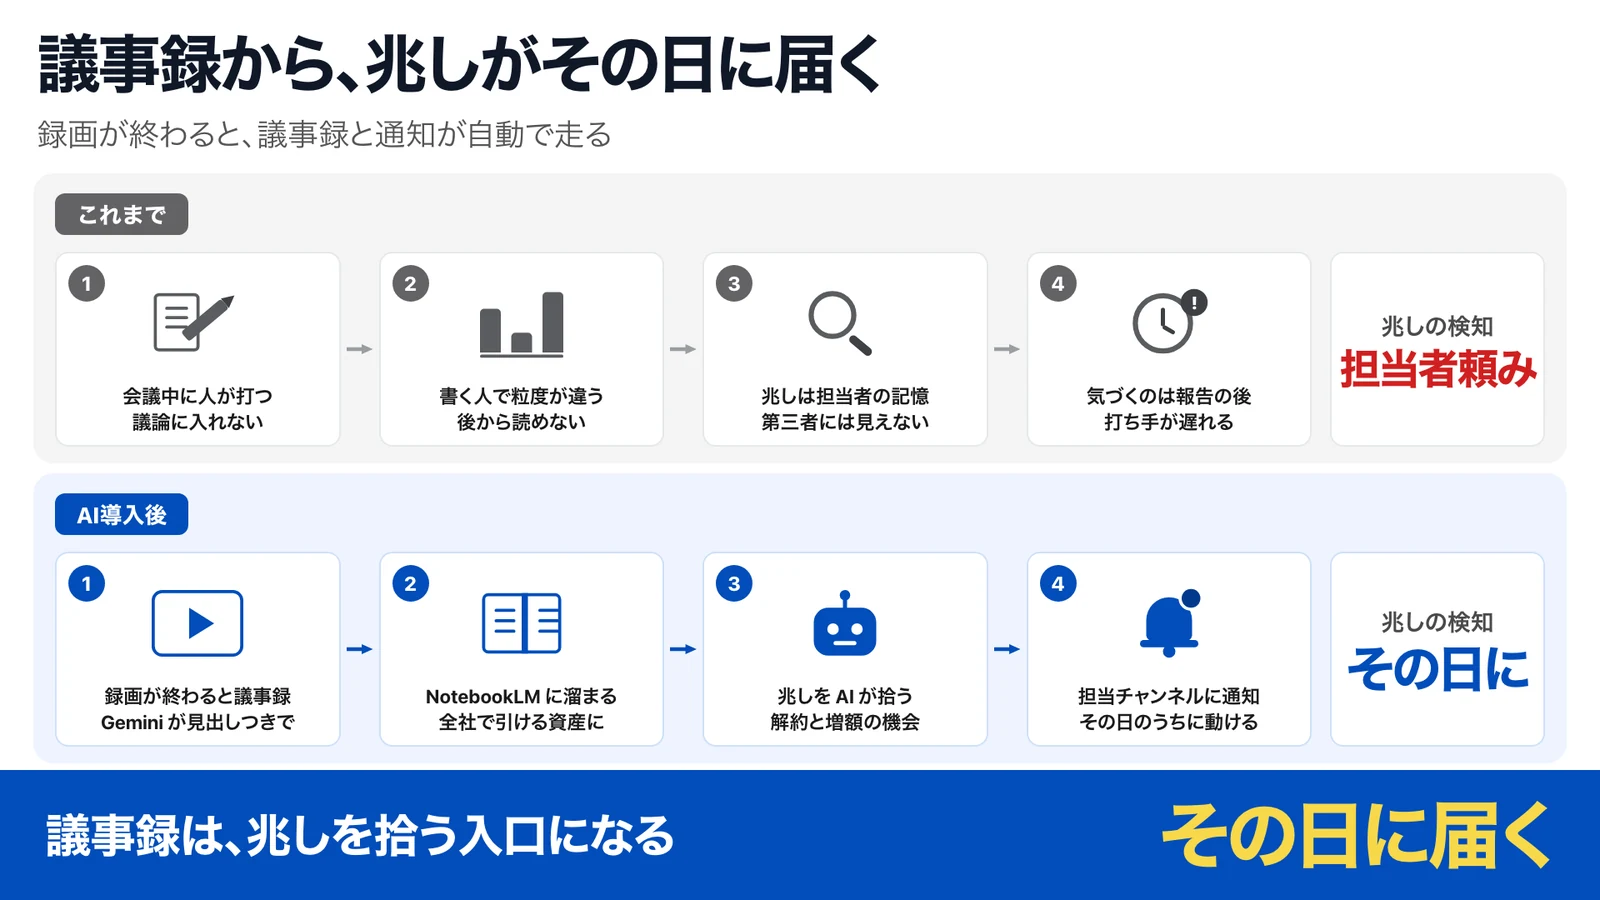
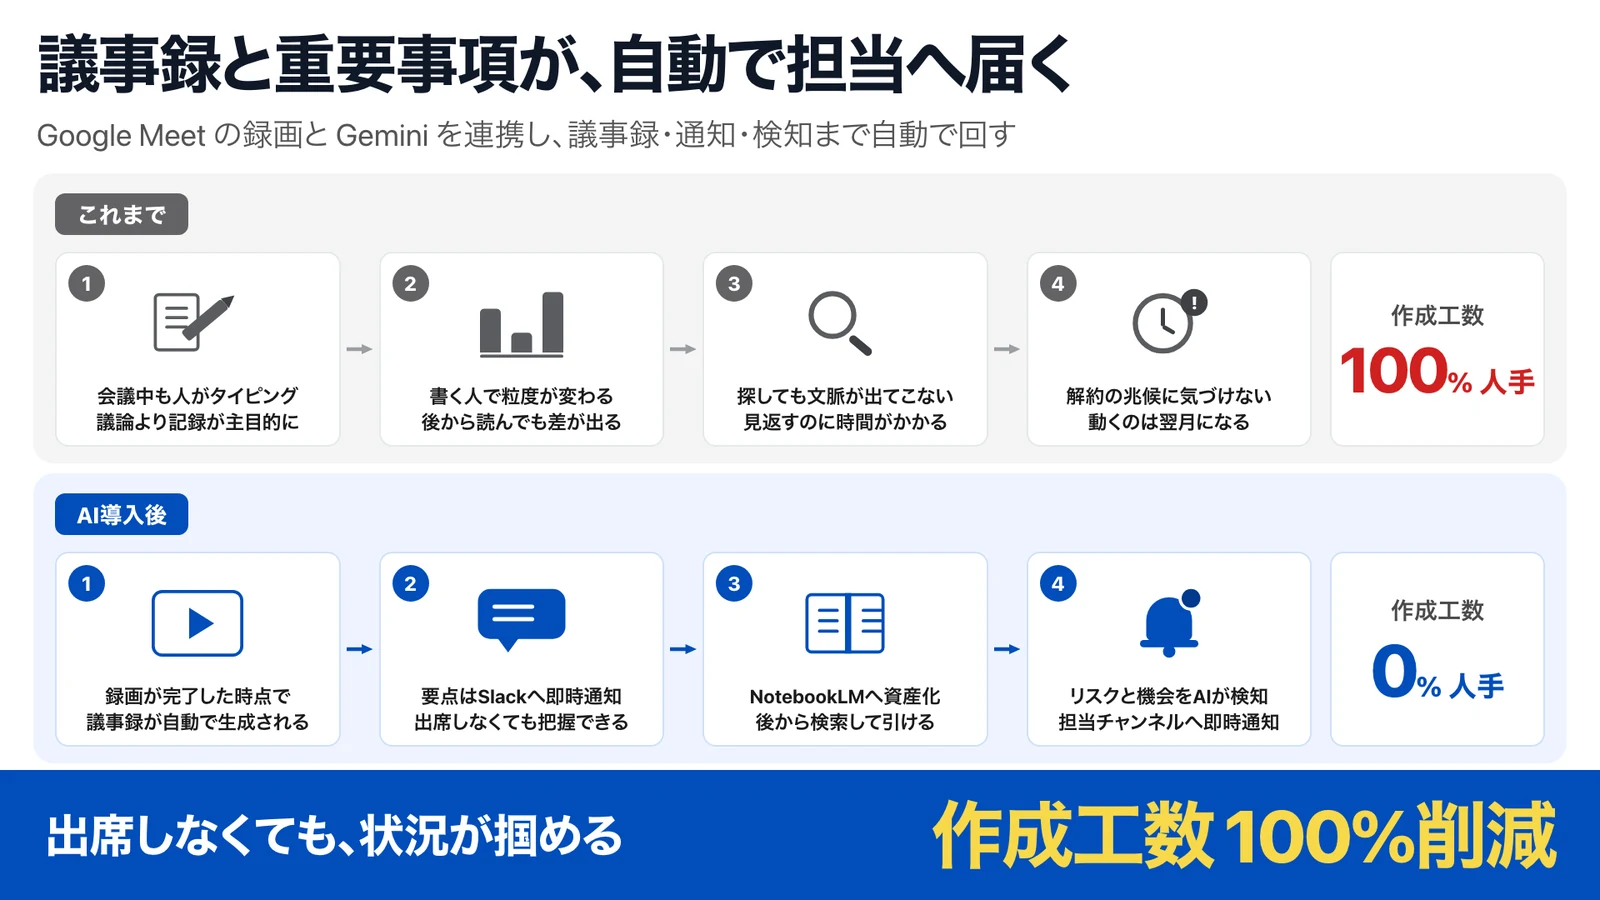
fix: 事例02 を「議事録と重要事項が、自動で担当へ届く」に（坂本 1b/2a）
- 「兆し」単独の言い回しをやめ、重要事項＝決定事項・次の打ち手・解約の兆し・増額の機会 に
- 図解 A3 は旧の「これまで／AI導入後」8マス・KPI・締めを残し、見出しだけ差し替え（機械ゲート 違反0）
- 検査: tile_check 5幅 ok／gate 20/20／NG OK／slop-guard A0・B0

diff --git a/cases/case-02.html b/cases/case-02.html
@@ -3,13 +3,13 @@
 <head>
 <meta charset="UTF-8">
 <meta name="viewport" content="width=device-width, initial-scale=1.0">
-<title>事例02：議事録から、解約の兆しがその日に Slack へ届く｜AI業務改革パートナー</title>
-<meta name="description" content="Google Meet の録画が終わると Gemini が議事録を書き、NotebookLM に溜まる。会話の中の解約の兆しや増額の機会を AI が読み取り、担当のチャンネルに通知する。">
+<title>事例02：議事録と重要事項が、自動で担当へ届く｜AI業務改革パートナー</title>
+<meta name="description" content="Google Meet の録画が終わると Gemini が議事録を書き、NotebookLM に溜まる。決定事項と次の打ち手、解約の兆しや増額の機会といった重要事項を AI が拾い、担当のチャンネルに届ける。">
 <link rel="canonical" href="https://ai-ops-partner.vercel.app/cases/case-02.html">
 <meta property="og:type" content="website">
 <meta property="og:site_name" content="AI業務改革パートナー">
-<meta property="og:title" content="事例02：議事録から、解約の兆しがその日に Slack へ届く｜AI業務改革パートナー">
-<meta property="og:description" content="Google Meet の録画が終わると Gemini が議事録を書き、NotebookLM に溜まる。会話の中の解約の兆しや増額の機会を AI が読み取り、担当のチャンネルに通知する。">
+<meta property="og:title" content="事例02：議事録と重要事項が、自動で担当へ届く｜AI業務改革パートナー">
+<meta property="og:description" content="Google Meet の録画が終わると Gemini が議事録を書き、NotebookLM に溜まる。決定事項と次の打ち手、解約の兆しや増額の機会といった重要事項を AI が拾い、担当のチャンネルに届ける。">
 <meta property="og:image" content="https://ai-ops-partner.vercel.app/cases/media/case-02_ill.webp">
 <meta property="og:url" content="https://ai-ops-partner.vercel.app/cases/case-02.html">
 <meta name="twitter:card" content="summary_large_image">
@@ -285,20 +285,20 @@ p.csub{max-width:1100px;margin:-6px auto 16px;font-size:.95rem;color:var(--tx2);
 <body>
 <header class="hd"><div class="hd-in"><a href="../index.html" class="hd-logo"><i></i>AI業務改革<span>パートナー</span></a><nav class="hd-nav"><a href="../index.html#cases">事例一覧</a><a href="../index.html#systems">動いている仕組み</a><a href="https://tally.so/r/QKdxx1" class="hd-cta" target="_blank" rel="noopener">無料で相談する</a></nav></div></header><div class="progress" id="pg"></div>
 <section class="chero"><div class="w"><div class="crumb"><a href="../index.html">事例一覧</a><span>›</span><span class="cur">CASE 02</span></div>
-<div class="chero-grid"><div><div class="bds"><span class="bd bd-cat">会議・議事録</span><span class="bd bd-video">デモあり</span></div><h1>議事録から、解約の兆しがその日に Slack へ届く</h1><p class="lead">Google Meet の録画が終わると Gemini が議事録を書き、NotebookLM に溜まる。会話の中の解約の兆しや増額の機会を AI が読み取り、担当のチャンネルに通知する。</p><div class="kpis"><div class="kp"><small>解約や増額の兆しの検知</small><b class="s"><span class="nw">担当者頼み</span><span class="ar">→</span><span class="nw">AIが自動</span></b></div><div class="kp"><small>担当チャンネルへの通知</small><b class="l"><span class="nw">その日に</span></b></div><div class="kp"><small>議事録の作成工数</small><b class="xl"><span class="nw">100%削減</span></b></div></div></div>
+<div class="chero-grid"><div><div class="bds"><span class="bd bd-cat">会議・議事録</span><span class="bd bd-video">デモあり</span></div><h1>議事録と重要事項が、自動で担当へ届く</h1><p class="lead">Google Meet の録画が終わると Gemini が議事録を書き、NotebookLM に溜まる。決定事項と次の打ち手、解約の兆しや増額の機会といった重要事項を AI が拾い、担当のチャンネルに届ける。</p><div class="kpis"><div class="kp"><small>議事録の作成工数</small><b class="xl"><span class="nw">100%削減</span></b></div><div class="kp"><small>重要事項の共有</small><b class="s"><span class="nw">担当者頼み</span><span class="ar">→</span><span class="nw">AIが自動</span></b></div><div class="kp"><small>担当チャンネルへの通知</small><b class="l"><span class="nw">その日に</span></b></div></div></div>
 <div class="chero-vis fi"><div class="fr"><img src="media/case-02_ill.webp" alt="議事録の完全自動化のイメージ" width="1600" height="900"></div></div></div></div></section>
-<section class="csec" id="problem"><div class="w"><div class="chd"><span class="tag tag-r">課題</span><h2>議事録はメモのまま眠り、兆しは担当者の頭の中にしかない</h2></div><div class="quote">議事録はメモのまま眠り、兆しは担当者の頭の中にしかない</div><p class="csub" style="margin-top:0">会議のたびに議事録は残るが、書く人によって粒度が違い、後から読み返されない。どの顧客に解約の兆しや増額の機会があるかは担当者の記憶にあり、マネージャーや第三者が知るのは報告が上がってからだった。</p></div></section>
-<section class="csec tight" id="change"><div class="w"><div class="chd"><span class="tag tag-b">変えたこと</span><h2>録画が終わると、議事録と兆しの通知が自動で走る</h2></div><p class="csub">Google Meet の録画が終わった時点で、Gemini が見出しつきの議事録を書く。議事録は Slack に届き、NotebookLM に溜まって全社で引ける。会話の中の解約の兆しと増額の機会は AI が拾い、担当のチャンネルへ流す。会議に出ていない人も、その日のうちに状況が分かる。</p><div class="tools"><small>使った道具</small><span>Google Meet</span><span>Gemini</span><span>Slack</span><span>NotebookLM</span><span>GAS</span></div>
+<section class="csec" id="problem"><div class="w"><div class="chd"><span class="tag tag-r">課題</span><h2>議事録はメモのまま眠り、重要事項は担当者の頭の中にしかない</h2></div><div class="quote">議事録はメモのまま眠り、重要事項は担当者の頭の中にしかない</div><p class="csub" style="margin-top:0">会議のたびに議事録は残るが、書く人によって粒度が違い、後から読み返されない。どの顧客に解約の兆しや増額の機会があるかは担当者の記憶にあり、マネージャーや第三者が知るのは報告が上がってからだった。</p></div></section>
+<section class="csec tight" id="change"><div class="w"><div class="chd"><span class="tag tag-b">変えたこと</span><h2>録画が終わると、議事録と重要事項の通知が自動で走る</h2></div><p class="csub">Google Meet の録画が終わった時点で、Gemini が見出しつきの議事録を書く。議事録は Slack に届き、NotebookLM に溜まって全社で引ける。決定事項と次の打ち手、解約の兆しや増額の機会は AI が拾い、担当のチャンネルへ流す。会議に出ていない人も、その日のうちに状況が分かる。</p><div class="tools"><small>使った道具</small><span>Google Meet</span><span>Gemini</span><span>Slack</span><span>NotebookLM</span><span>GAS</span></div>
 <div class="in fi"><div class="fig"><img class="zoomable" src="media/case-02_zukai.webp" alt="議事録の完全自動化の図解（これまでとAI導入後）" width="1600" height="900" data-cap="これまでと、AI導入後"><div class="fig-cap"><span>図解を押すと拡大</span><span>これまでと、AI導入後</span></div></div></div></div></section>
 <section class="csec alt" id="demo"><div class="w"><div class="chd"><span class="tag tag-d">デモ</span><h2>実際の動き（60秒）</h2></div><p class="csub">見出しの順に、入口から出口まで通しで動かしています。</p>
 <div class="vidwrap fi"><video autoplay muted loop playsinline preload="metadata" poster="media/case-02_demo_poster.jpg" controls aria-label="議事録の完全自動化のデモ（60秒・架空データ）"><source src="media/case-02_demo.webm" type="video/webm"><source src="media/case-02_demo.mp4" type="video/mp4"></video>
 <div class="vid-cap"><b>60秒・字幕とナレーションつき（自動再生中は無音）</b><span>架空データで再現。実際の導入では御社のツールに合わせて組みます。</span></div></div></div></section>
-<section class="csec" id="result"><div class="w"><div class="chd"><span class="tag tag-g">結果</span><h2>会議中は議論だけ。兆しは第三者にも、その日に見える</h2></div>
-<div class="nums fi"><div class="num big"><small>解約や増額の兆しを AI が検知して Slack へ</small><b class="s"><span class="nw">兆しが、その日に届く</span></b></div><div class="num"><small>担当チャンネルへの通知</small><b class="l"><span class="nw">その日に</span></b></div><div class="num"><small>議事録の作成工数</small><b class="xl"><span class="nw">100%削減</span></b></div></div><p class="csub" style="margin-top:0">議事録を書く仕事が消え、会議中は議論に集中できる。解約の兆しが担当チャンネルに届くので、担当者以外でも気づけて、マネージャーが早く動ける。過去の議事録は NotebookLM に溜まり、施策を考える時にすぐ引ける。</p></div></section>
+<section class="csec" id="result"><div class="w"><div class="chd"><span class="tag tag-g">結果</span><h2>会議中は議論だけ。重要事項は第三者にも、その日に見える</h2></div>
+<div class="nums fi"><div class="num big"><small>議事録は 100%自動。解約の兆し・増額の機会も担当へ</small><b class="s"><span class="nw">重要事項が、自動で届く</span></b></div><div class="num"><small>重要事項の共有</small><b class="s"><span class="nw">担当者頼み</span><span class="ar">→</span><span class="nw">AIが自動</span></b></div><div class="num"><small>担当チャンネルへの通知</small><b class="l"><span class="nw">その日に</span></b></div></div><p class="csub" style="margin-top:0">議事録を書く仕事が消え、会議中は議論に集中できる。解約の兆しや増額の機会が担当チャンネルに届くので、担当者以外でも気づけて、マネージャーが早く動ける。過去の議事録は NotebookLM に溜まり、施策を考える時にすぐ引ける。</p></div></section>
 <section class="csec tight" id="system"><div class="w"><div class="chd"><span class="tag tag-g">仕組み</span><h2>入口から出口、次の行動まで一本の線で</h2></div>
 <div class="in fi"><div class="fig"><img class="zoomable" src="media/case-02_zukai_s.webp" alt="議事録の完全自動化：入口→AI→出口→次の行動の流れと成果" width="1600" height="900" data-cap="入口から出口、次の行動まで"><div class="fig-cap"><span>図解を押すと拡大</span><span>入口から出口、次の行動まで</span></div></div></div></div></section>
 
-<section class="csec" id="hint"><div class="w"><div class="chd"><span class="tag tag-v">御社なら</span><h2>御社への転用</h2></div><div class="in fi"><div class="callout"><b>議事録を AI に書かせるだけなら、そこで止めない。会話から兆しを拾って通知するところまで組むと、議事録が動き出す</b><p>「議事録は書くもの」から「兆しを拾う入口」に変わった。同じ課題があれば、御社のツールと業務の流れに合わせて組み替えます。まずは30分、いまの業務を聞かせてください。</p></div></div></div></section>
+<section class="csec" id="hint"><div class="w"><div class="chd"><span class="tag tag-v">御社なら</span><h2>御社への転用</h2></div><div class="in fi"><div class="callout"><b>議事録を AI に書かせるだけなら、そこで止めない。会話から決定事項と、解約の兆し、増額の機会を拾って担当に届けるところまで組むと、議事録が動き出す</b><p>「議事録は書くもの」から「重要事項を拾う入口」に変わった。同じ課題があれば、御社のツールと業務の流れに合わせて組み替えます。まずは30分、いまの業務を聞かせてください。</p></div></div></div></section>
 <section class="next"><div class="w"><div class="h3">ほかの事例</div><div class="ngrid"><a class="ncard" href="case-01.html"><img src="media/case-01_ill_m.webp" alt="" loading="lazy" width="1600" height="900"><div><small>前の事例 · CASE 01</small><b>売上集計を自動化し、毎日250分の転記を0分に</b></div></a><a class="ncard" href="case-03.html"><img src="media/case-03_ill_m.webp" alt="" loading="lazy" width="1600" height="900"><div><small>次の事例 · CASE 03</small><b>組織全体で月2,000時間の資料作成を、500時間に</b></div></a></div><div class="back"><a href="../index.html#cases">← 事例一覧へ戻る</a></div></div></section>
 
 <section class="cta"><div class="w">

diff --git a/cases/case-03.html b/cases/case-03.html
@@ -299,7 +299,7 @@ p.csub{max-width:1100px;margin:-6px auto 16px;font-size:.95rem;color:var(--tx2);
 <div class="in fi"><div class="fig"><img class="zoomable" src="media/case-03_zukai_s.webp" alt="資料作成の半自動化：入口→AI→出口→次の行動の流れと成果" width="1600" height="900" data-cap="入口から出口、次の行動まで"><div class="fig-cap"><span>図解を押すと拡大</span><span>入口から出口、次の行動まで</span></div></div></div></div></section>
 
 <section class="csec" id="hint"><div class="w"><div class="chd"><span class="tag tag-v">御社なら</span><h2>御社への転用</h2></div><div class="in fi"><div class="callout"><b>定例資料は、前回の文脈と最新の数字を AI に渡すところから。骨子が出れば、人の仕事はレビューだけになる</b><p>資料作成が「ゼロから」でなく「前回の続き」から始まる。同じ課題があれば、御社のツールと業務の流れに合わせて組み替えます。まずは30分、いまの業務を聞かせてください。</p></div></div></div></section>
-<section class="next"><div class="w"><div class="h3">ほかの事例</div><div class="ngrid"><a class="ncard" href="case-02.html"><img src="media/case-02_ill_m.webp" alt="" loading="lazy" width="1600" height="900"><div><small>前の事例 · CASE 02</small><b>議事録から、解約の兆しがその日に Slack へ届く</b></div></a><a class="ncard" href="case-04.html"><img src="media/case-04_ill_m.webp" alt="" loading="lazy" width="1600" height="900"><div><small>次の事例 · CASE 04</small><b>Claude Code の研修教材31単元を、設計から5日で形にする</b></div></a></div><div class="back"><a href="../index.html#cases">← 事例一覧へ戻る</a></div></div></section>
+<section class="next"><div class="w"><div class="h3">ほかの事例</div><div class="ngrid"><a class="ncard" href="case-02.html"><img src="media/case-02_ill_m.webp" alt="" loading="lazy" width="1600" height="900"><div><small>前の事例 · CASE 02</small><b>議事録と重要事項が、自動で担当へ届く</b></div></a><a class="ncard" href="case-04.html"><img src="media/case-04_ill_m.webp" alt="" loading="lazy" width="1600" height="900"><div><small>次の事例 · CASE 04</small><b>Claude Code の研修教材31単元を、設計から5日で形にする</b></div></a></div><div class="back"><a href="../index.html#cases">← 事例一覧へ戻る</a></div></div></section>
 
 <section class="cta"><div class="w">
 <h2>同じような課題を抱えていませんか？</h2>

diff --git a/cases/case-01.html b/cases/case-01.html
@@ -299,7 +299,7 @@ p.csub{max-width:1100px;margin:-6px auto 16px;font-size:.95rem;color:var(--tx2);
 <div class="in fi"><div class="fig"><img class="zoomable" src="media/case-01_zukai_s.webp" alt="売上集計の自動化：入口→AI→出口→次の行動の流れと成果" width="1600" height="900" data-cap="入口から出口、次の行動まで"><div class="fig-cap"><span>図解を押すと拡大</span><span>入口から出口、次の行動まで</span></div></div></div></div></section>
 
 <section class="csec" id="hint"><div class="w"><div class="chd"><span class="tag tag-v">御社なら</span><h2>御社への転用</h2></div><div class="in fi"><div class="callout"><b>売上・KPIの手集計が残っている会社は、ここから始めると一番早く効果が出る</b><p>マネージャーが「数字を集める人」から「数字で動く人」に変わった。同じ課題があれば、御社のツールと業務の流れに合わせて組み替えます。まずは30分、いまの業務を聞かせてください。</p></div></div></div></section>
-<section class="next"><div class="w"><div class="h3">ほかの事例</div><div class="ngrid"><a class="ncard" href="case-09.html"><img src="media/case-09_ill_m.webp" alt="" loading="lazy" width="1600" height="900"><div><small>前の事例 · CASE 09</small><b>AIっぽさのない資料が、自社の型で仕上がる</b></div></a><a class="ncard" href="case-02.html"><img src="media/case-02_ill_m.webp" alt="" loading="lazy" width="1600" height="900"><div><small>次の事例 · CASE 02</small><b>議事録から、解約の兆しがその日に Slack へ届く</b></div></a></div><div class="back"><a href="../index.html#cases">← 事例一覧へ戻る</a></div></div></section>
+<section class="next"><div class="w"><div class="h3">ほかの事例</div><div class="ngrid"><a class="ncard" href="case-09.html"><img src="media/case-09_ill_m.webp" alt="" loading="lazy" width="1600" height="900"><div><small>前の事例 · CASE 09</small><b>AIっぽさのない資料が、自社の型で仕上がる</b></div></a><a class="ncard" href="case-02.html"><img src="media/case-02_ill_m.webp" alt="" loading="lazy" width="1600" height="900"><div><small>次の事例 · CASE 02</small><b>議事録と重要事項が、自動で担当へ届く</b></div></a></div><div class="back"><a href="../index.html#cases">← 事例一覧へ戻る</a></div></div></section>
 
 <section class="cta"><div class="w">
 <h2>同じような課題を抱えていませんか？</h2>

diff --git a/index.html b/index.html
@@ -318,8 +318,8 @@ p.csub{max-width:1100px;margin:-6px auto 16px;font-size:.95rem;color:var(--tx2);
 <div class="kpi"><div><small>毎日の転記作業</small><b><span class="old">250分</span><span class="ar">→</span>0分</b><div class="sub">年240万円分・960時間の削減</div></div><span class="go" aria-hidden="true">↗</span></div></div></a><a class="card fi" href="cases/case-02.html" data-cat="会議・議事録">
 <div class="thumb"><img src="cases/media/case-02_ill_m.webp" alt="議事録の完全自動化のイメージ" loading="lazy" width="1600" height="900"></div>
 <div class="cbody"><div class="cmeta">CASE 02<span class="cat">会議・議事録</span></div>
-<div class="cbds"><span class="bd bd-video">60秒デモ</span></div><h3>議事録から、解約の兆しがその日に Slack へ届く</h3>
-<div class="kpi"><div><small>解約や増額の兆しを AI が検知して Slack へ</small><b>兆しが、その日に届く</b></div><span class="go" aria-hidden="true">↗</span></div></div></a><a class="card fi" href="cases/case-03.html" data-cat="資料・制作物">
+<div class="cbds"><span class="bd bd-video">60秒デモ</span></div><h3>議事録と重要事項が、自動で担当へ届く</h3>
+<div class="kpi"><div><small>議事録は 100%自動。解約の兆し・増額の機会も担当へ</small><b>重要事項が、自動で届く</b></div><span class="go" aria-hidden="true">↗</span></div></div></a><a class="card fi" href="cases/case-03.html" data-cat="資料・制作物">
 <div class="thumb"><img src="cases/media/case-03_ill_m.webp" alt="資料作成の半自動化のイメージ" loading="lazy" width="1600" height="900"></div>
 <div class="cbody"><div class="cmeta">CASE 03<span class="cat">資料・制作物</span></div>
 <div class="cbds"><span class="bd bd-video">60秒デモ</span></div><h3>組織全体で月2,000時間の資料作成を、500時間に</h3>
